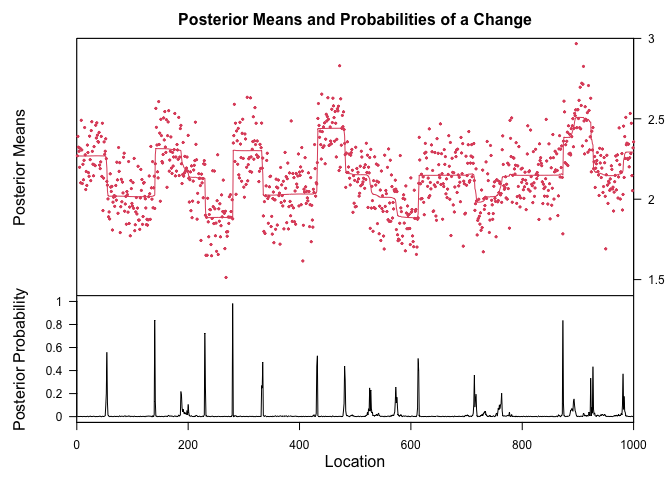
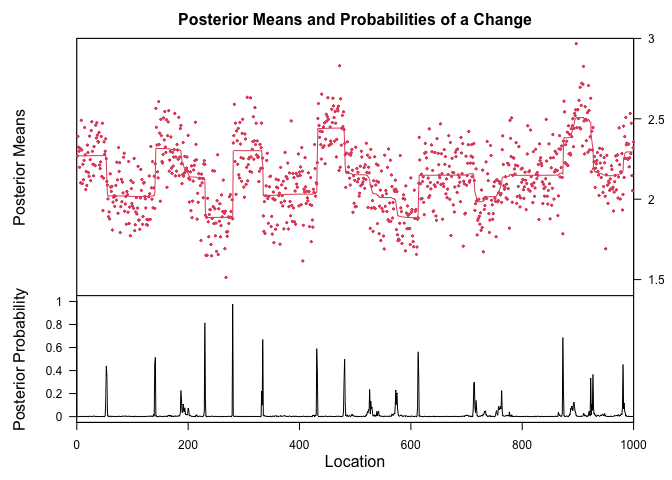
add CI to Example folder

diff --git a/Example/BayesCNA_example.md b/Example/BayesCNA_example.md
@@ -127,6 +127,17 @@ plot(denoised)
 
 ![](BayesCNA_example_files/figure-gfm/unnamed-chunk-6-1.png)<!-- -->
 
+To gain an insight into the uncertainty associated the mean, we compute
+a 95% CI based on the obtained MCMC partitions. The estimated (binwise)
+mean is indicated in solid red. The input data is represented with gray
+scatterpoints. A wider interval indicates higher uncertainty.
+
+``` r
+plot.CI(denoised) 
+```
+
+![](BayesCNA_example_files/figure-gfm/unnamed-chunk-7-1.png)<!-- -->
+
 The next step is to identify a likely partition of the genome based on
 the posterior changepoint probabilities. Important parameters for the
 post-processing are $\varepsilon$ (percentage of the highest peak), that
@@ -141,13 +152,13 @@ denoised.postprocessed <- bcp.pp.sd(denoised$data[, 2], denoised, eps = eps, n.s
 cat("Identified breakpoints: ", denoised.postprocessed)
 ```
 
-    ## Identified breakpoints:  55 141 188 231 281 335 433 482 527 574 614 715 764 874 894 928 982
+    ## Identified breakpoints:  54 142 188 231 281 335 432 482 527 574 614 715 764 874 894 928 982
 
 ``` r
 plot.simulated.data(example.data) + geom_vline(xintercept = denoised.postprocessed, color = "black", linetype = "dashed")
 ```
 
-![](BayesCNA_example_files/figure-gfm/unnamed-chunk-8-1.png)<!-- -->
+![](BayesCNA_example_files/figure-gfm/unnamed-chunk-9-1.png)<!-- -->
 
 From the identified breakpoints, we construct the copy number profile by
 computing the median of the data, conditioned on the obtained partition:
